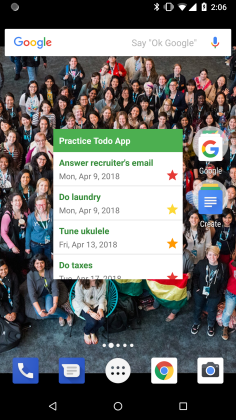
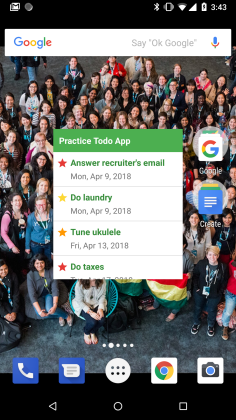
In process - tasks no longer deleted immediately after checking them off, making it possible to undo completion when you tap the wrong task, plus scheduling deletions will be a good way to use scheduling in this app

diff --git a/app/src/main/java/com/tachyonlabs/practicetodoapp/adapters/TodoListAdapter.java b/app/src/main/java/com/tachyonlabs/practicetodoapp/adapters/TodoListAdapter.java
@@ -4,30 +4,39 @@ import com.tachyonlabs.practicetodoapp.R;
 import com.tachyonlabs.practicetodoapp.data.TodoListContract;
 import com.tachyonlabs.practicetodoapp.models.TodoTask;
 
+import android.annotation.SuppressLint;
 import android.content.Context;
+import android.content.res.ColorStateList;
 import android.content.res.Resources;
 import android.database.Cursor;
+import android.graphics.Color;
 import android.graphics.drawable.Drawable;
 import android.support.annotation.NonNull;
+import android.support.constraint.ConstraintLayout;
+import android.support.v7.widget.AppCompatCheckBox;
 import android.support.v7.widget.RecyclerView;
 import android.text.format.DateUtils;
 import android.view.LayoutInflater;
 import android.view.View;
 import android.view.ViewGroup;
-import android.widget.CheckBox;
 import android.widget.ImageView;
 import android.widget.TextView;
 
 public class TodoListAdapter extends RecyclerView.Adapter<TodoListAdapter.TodoListAdapterViewHolder> {
-    private final String TAG = TodoListAdapter.class.getSimpleName();
+    private final static String TAG = TodoListAdapter.class.getSimpleName();
+    private final static int COMPLETED = 1;
     private final TodoListAdapterOnClickHandler mClickHandler;
     private Context mContext;
     private Drawable[] priorityStars;
+    private Drawable completedStar;
     private Cursor mCursor;
     private int mDescriptionIndex;
     private int mPriorityIndex;
     private int mDueDateIndex;
     private int m_IDIndex;
+    private int mCompletedIndex;
+    private ColorStateList completedCheckboxColors;
+    private ColorStateList unCompletedCheckboxColors;
 
     public TodoListAdapter(Context context, TodoListAdapterOnClickHandler todoListAdapterOnClickHandler) {
         mClickHandler = todoListAdapterOnClickHandler;
@@ -35,6 +44,27 @@ public class TodoListAdapter extends RecyclerView.Adapter<TodoListAdapter.TodoLi
         Resources res = context.getResources();
         // not really the place for this, but I had too much trouble trying to read them from @arrays
         priorityStars = new Drawable[]{res.getDrawable(R.drawable.ic_star_red_24dp), res.getDrawable(R.drawable.ic_star_orange_24dp), res.getDrawable(R.drawable.ic_star_yellow_24dp)};
+        completedStar = res.getDrawable(R.drawable.ic_star_grey_24dp);
+
+        completedCheckboxColors = new ColorStateList(
+                new int[][]{
+                        new int[]{-android.R.attr.state_checked},
+                        new int[]{android.R.attr.state_checked},
+                },
+                new int[]{
+                        Color.DKGRAY,
+                        mContext.getResources().getColor(R.color.colorCompleted),
+                });
+
+        unCompletedCheckboxColors = new ColorStateList(
+                new int[][]{
+                        new int[]{-android.R.attr.state_checked},
+                        new int[]{android.R.attr.state_checked},
+                },
+                new int[]{
+                        Color.DKGRAY,
+                        mContext.getResources().getColor(R.color.colorAccent),
+                });
     }
 
     @Override
@@ -50,13 +80,12 @@ public class TodoListAdapter extends RecyclerView.Adapter<TodoListAdapter.TodoLi
         return viewHolder;
     }
 
+    @SuppressLint("RestrictedApi")
     @Override
     public void onBindViewHolder(@NonNull TodoListAdapter.TodoListAdapterViewHolder holder, int position) {
         mCursor.moveToPosition(position);
 
         holder.cbTodoDescription.setText(mCursor.getString(mDescriptionIndex));
-        // so deleting an item doesn't propagate the checked checkbox when the view is recycled
-        holder.cbTodoDescription.setChecked(false);
 //        // ditto for not propagating a red/overdue date
 //        holder.tvTodoDueDate.setTextColor(holder.tvTodoPriority.getCurrentTextColor());
 
@@ -83,7 +112,21 @@ public class TodoListAdapter extends RecyclerView.Adapter<TodoListAdapter.TodoLi
         int priority = mCursor.getInt(mPriorityIndex);
         holder.tvTodoDueDate.setText(dueDateString);
         holder.tvTodoPriority.setText(mContext.getResources().getStringArray(R.array.priorities)[priority]);
-        holder.ivTodoPriorityStar.setBackground(priorityStars[priority]);
+        int isCompleted = mCursor.getInt(mCompletedIndex);
+        holder.cbTodoDescription.setChecked(isCompleted == COMPLETED);
+
+        if (isCompleted == COMPLETED) {
+            // if the task is completed, we want everything grey, and no touch selector behavior
+            holder.clTodoListItem.setBackground(null);
+            holder.cbTodoDescription.setTextColor(mContext.getResources().getColor(R.color.colorCompleted));
+            holder.cbTodoDescription.setSupportButtonTintList(completedCheckboxColors);
+            holder.ivTodoPriorityStar.setBackground(completedStar);
+        } else {
+            holder.clTodoListItem.setBackground(mContext.getResources().getDrawable(R.drawable.list_item_touch_selector));
+            holder.cbTodoDescription.setTextColor(mContext.getResources().getColor(R.color.colorPrimaryDark));
+            holder.cbTodoDescription.setSupportButtonTintList(unCompletedCheckboxColors);
+            holder.ivTodoPriorityStar.setBackground(priorityStars[priority]);
+        }
     }
 
     @Override
@@ -102,6 +145,7 @@ public class TodoListAdapter extends RecyclerView.Adapter<TodoListAdapter.TodoLi
             mPriorityIndex = mCursor.getColumnIndex(TodoListContract.TodoListEntry.COLUMN_PRIORITY);
             mDueDateIndex = mCursor.getColumnIndex(TodoListContract.TodoListEntry.COLUMN_DUE_DATE);
             m_IDIndex = mCursor.getColumnIndex(TodoListContract.TodoListEntry.COLUMN_ID);
+            mCompletedIndex = mCursor.getColumnIndex(TodoListContract.TodoListEntry.COLUMN_COMPLETED);
         }
         notifyDataSetChanged();
     }
@@ -111,10 +155,11 @@ public class TodoListAdapter extends RecyclerView.Adapter<TodoListAdapter.TodoLi
     }
 
     public class TodoListAdapterViewHolder extends RecyclerView.ViewHolder implements View.OnClickListener {
-        final CheckBox cbTodoDescription;
+        final AppCompatCheckBox cbTodoDescription;
         final TextView tvTodoDueDate;
         final TextView tvTodoPriority;
         final ImageView ivTodoPriorityStar;
+        final ConstraintLayout clTodoListItem;
 
         public TodoListAdapterViewHolder(View itemView) {
             super(itemView);
@@ -122,6 +167,7 @@ public class TodoListAdapter extends RecyclerView.Adapter<TodoListAdapter.TodoLi
             tvTodoDueDate = itemView.findViewById(R.id.tv_todo_due_date);
             tvTodoPriority = itemView.findViewById(R.id.tv_todo_priority);
             ivTodoPriorityStar = itemView.findViewById(R.id.iv_todo_priority_star);
+            clTodoListItem = (ConstraintLayout) itemView;
             itemView.setOnClickListener(this);
             cbTodoDescription.setOnClickListener(this);
         }
@@ -132,7 +178,8 @@ public class TodoListAdapter extends RecyclerView.Adapter<TodoListAdapter.TodoLi
             TodoTask todoTask = new TodoTask(mCursor.getString(mDescriptionIndex),
                     mCursor.getInt(mPriorityIndex),
                     mCursor.getLong(mDueDateIndex),
-                    mCursor.getInt(m_IDIndex));
+                    mCursor.getInt(m_IDIndex),
+                    mCursor.getInt(mCompletedIndex));
             mClickHandler.onClick(todoTask, view);
         }
     }

diff --git a/app/src/main/java/com/tachyonlabs/practicetodoapp/activities/TodoListActivity.java b/app/src/main/java/com/tachyonlabs/practicetodoapp/activities/TodoListActivity.java
@@ -8,6 +8,7 @@ import com.tachyonlabs.practicetodoapp.models.TodoTask;
 
 import android.app.Activity;
 import android.appwidget.AppWidgetManager;
+import android.content.ContentValues;
 import android.content.Intent;
 import android.content.SharedPreferences;
 import android.database.Cursor;
@@ -38,6 +39,9 @@ public class TodoListActivity extends AppCompatActivity implements LoaderManager
     private static final int ADD_TASK_REQUEST = 1;
     private static final int EDIT_TASK_REQUEST = 2;
     private static final int ID_TODOLIST_LOADER = 2018;
+    private static final int COMPLETED = 1;
+    private static final int NOT_COMPLETED = 0;
+
     private RecyclerView mRecyclerView;
     private TodoListAdapter mTodoListAdapter;
     private ActivityTodoListBinding mBinding;
@@ -92,24 +96,40 @@ public class TodoListActivity extends AppCompatActivity implements LoaderManager
     public void onClick(TodoTask todoTask, View view) {
         // are they checking off the task as complete, or tapping the task to edit it?
         if (view instanceof CheckBox) {
-            // delete the checked-off task
+            // checking off task gets it flagged for deletion soon, and unchecking it reprieves it
             final String id = String.valueOf(todoTask.getId());
             final Uri uri = TodoListContract.TodoListEntry.CONTENT_URI.buildUpon().appendPath(id).build();
+            int isCompleted;
+
+            final ContentValues contentValues = new ContentValues();
+            contentValues.put(TodoListContract.TodoListEntry.COLUMN_DESCRIPTION, todoTask.getDescription());
+            contentValues.put(TodoListContract.TodoListEntry.COLUMN_PRIORITY, todoTask.getPriority());
+            contentValues.put(TodoListContract.TodoListEntry.COLUMN_DUE_DATE, todoTask.getDueDate());
+
+            if (((CheckBox) view).isChecked()) {
+                isCompleted = COMPLETED;
+            } else {
+                isCompleted = NOT_COMPLETED;
+            }
+
+            contentValues.put(TodoListContract.TodoListEntry.COLUMN_COMPLETED, isCompleted);
 
             // Wait half a second so they can actually see the check appear before the task is deleted
             Handler handler = new Handler();
             handler.postDelayed(new Runnable() {
                 public void run() {
-                    getContentResolver().delete(uri, "_id=?", new String[]{id});
+                    getContentResolver().update(uri, contentValues, "_id=?", new String[]{id});
                     updateWidget();
                 }
             }, 500);
         } else {
-            // edit the task
-            Intent intent = new Intent(this, AddOrEditTaskActivity.class);
-            intent.putExtra(getString(R.string.intent_adding_or_editing_key), getString(R.string.edit_task));
-            intent.putExtra(getString(R.string.intent_todo_key), todoTask);
-            startActivityForResult(intent, EDIT_TASK_REQUEST);
+            // edit the task if it's not already completed
+            if (todoTask.getCompleted() == NOT_COMPLETED) {
+                Intent intent = new Intent(this, AddOrEditTaskActivity.class);
+                intent.putExtra(getString(R.string.intent_adding_or_editing_key), getString(R.string.edit_task));
+                intent.putExtra(getString(R.string.intent_todo_key), todoTask);
+                startActivityForResult(intent, EDIT_TASK_REQUEST);
+            }
         }
     }
 
@@ -134,9 +154,9 @@ public class TodoListActivity extends AppCompatActivity implements LoaderManager
             Uri todoListQueryUri = TodoListContract.TodoListEntry.CONTENT_URI;
             // sort order preference is the primary sort, with the other sort order as secondary
             if (sortOrderPreference.equals(getString(R.string.priority))) {
-                sortOrder = TodoListContract.TodoListEntry.COLUMN_PRIORITY + ", " + TodoListContract.TodoListEntry.COLUMN_DUE_DATE;
+                sortOrder = TodoListContract.TodoListEntry.COLUMN_COMPLETED + ", " + TodoListContract.TodoListEntry.COLUMN_PRIORITY + ", " + TodoListContract.TodoListEntry.COLUMN_DUE_DATE;
             } else {
-                sortOrder = TodoListContract.TodoListEntry.COLUMN_DUE_DATE + ", " + TodoListContract.TodoListEntry.COLUMN_PRIORITY;
+                sortOrder = TodoListContract.TodoListEntry.COLUMN_COMPLETED + ", " + TodoListContract.TodoListEntry.COLUMN_DUE_DATE + ", " + TodoListContract.TodoListEntry.COLUMN_PRIORITY;
             }
 
             return new CursorLoader(this,

diff --git a/app/src/main/java/com/tachyonlabs/practicetodoapp/activities/AddOrEditTaskActivity.java b/app/src/main/java/com/tachyonlabs/practicetodoapp/activities/AddOrEditTaskActivity.java
@@ -24,6 +24,9 @@ public class AddOrEditTaskActivity extends AppCompatActivity {
     private int todoId = -1;
     private String mAddOrEdit;
 
+    // we don't add or edit tasks that are pending deletion
+    private final static int NOT_COMPLETED = 0;
+
     @Override
     protected void onCreate(Bundle savedInstanceState) {
         super.onCreate(savedInstanceState);
@@ -128,7 +131,7 @@ public class AddOrEditTaskActivity extends AppCompatActivity {
                 calendar.set(mBinding.dpDueDate.getYear(), mBinding.dpDueDate.getMonth(), mBinding.dpDueDate.getDayOfMonth());
                 dueDate = calendar.getTimeInMillis();
             }
-            TodoTask todoTask = new TodoTask(description, priority, dueDate, todoId);
+            TodoTask todoTask = new TodoTask(description, priority, dueDate, todoId, NOT_COMPLETED);
 
             insertOrUpdate(todoTask);
 
@@ -146,6 +149,7 @@ public class AddOrEditTaskActivity extends AppCompatActivity {
         contentValues.put(TodoListContract.TodoListEntry.COLUMN_DESCRIPTION, todoTask.getDescription());
         contentValues.put(TodoListContract.TodoListEntry.COLUMN_PRIORITY, todoTask.getPriority());
         contentValues.put(TodoListContract.TodoListEntry.COLUMN_DUE_DATE, todoTask.getDueDate());
+        contentValues.put(TodoListContract.TodoListEntry.COLUMN_COMPLETED, todoTask.getCompleted());
 
         if (mAddOrEdit.equals(getString(R.string.add_new_task))) {
             getContentResolver().insert(TodoListContract.TodoListEntry.CONTENT_URI, contentValues);

diff --git a/app/src/main/java/com/tachyonlabs/practicetodoapp/widget/TodoListWidgetRemoteViewsFactory.java b/app/src/main/java/com/tachyonlabs/practicetodoapp/widget/TodoListWidgetRemoteViewsFactory.java
@@ -25,6 +25,7 @@ public class TodoListWidgetRemoteViewsFactory implements RemoteViewsService.Remo
     private int mPriorityIndex;
     private int mDueDateIndex;
     private int m_IDIndex;
+    private int mPendingDeletionIndex;
 
     public TodoListWidgetRemoteViewsFactory(Context context, Intent intent) {
         mContext = context;
@@ -89,6 +90,7 @@ public class TodoListWidgetRemoteViewsFactory implements RemoteViewsService.Remo
         mPriorityIndex = mCursor.getColumnIndex(TodoListContract.TodoListEntry.COLUMN_PRIORITY);
         mDueDateIndex = mCursor.getColumnIndex(TodoListContract.TodoListEntry.COLUMN_DUE_DATE);
         m_IDIndex = mCursor.getColumnIndex(TodoListContract.TodoListEntry.COLUMN_ID);
+        mPendingDeletionIndex = mCursor.getColumnIndex(TodoListContract.TodoListEntry.COLUMN_COMPLETED);
 
         String dueDateString;
         long dueDate = mCursor.getLong(mDueDateIndex);
@@ -118,7 +120,8 @@ public class TodoListWidgetRemoteViewsFactory implements RemoteViewsService.Remo
         TodoTask todoTask = new TodoTask(mCursor.getString(mDescriptionIndex),
                 mCursor.getInt(mPriorityIndex),
                 mCursor.getLong(mDueDateIndex),
-                mCursor.getInt(m_IDIndex));
+                mCursor.getInt(m_IDIndex),
+                mCursor.getInt(mPendingDeletionIndex));
 
         Intent fillInIntent = new Intent();
         fillInIntent.putExtra(mContext.getString(R.string.intent_todo_key), todoTask);

diff --git a/app/src/main/java/com/tachyonlabs/practicetodoapp/data/TodoListDbHelper.java b/app/src/main/java/com/tachyonlabs/practicetodoapp/data/TodoListDbHelper.java
@@ -6,7 +6,7 @@ import android.database.sqlite.SQLiteOpenHelper;
 
 public class TodoListDbHelper extends SQLiteOpenHelper {
     public static final String DATABASE_NAME = "todolist.db";
-    private static final int DATABASE_VERSION = 1;
+    private static final int DATABASE_VERSION = 3;
 
     public TodoListDbHelper(Context context) {
         super(context, DATABASE_NAME, null, DATABASE_VERSION);
@@ -20,7 +20,8 @@ public class TodoListDbHelper extends SQLiteOpenHelper {
                         TodoListContract.TodoListEntry._ID + " INTEGER PRIMARY KEY AUTOINCREMENT, " +
                         TodoListContract.TodoListEntry.COLUMN_DESCRIPTION + " TEXT NOT NULL, " +
                         TodoListContract.TodoListEntry.COLUMN_PRIORITY + " INTEGER NOT NULL, " +
-                        TodoListContract.TodoListEntry.COLUMN_DUE_DATE + " LONG NOT NULL);";
+                        TodoListContract.TodoListEntry.COLUMN_DUE_DATE + " LONG NOT NULL, " +
+                        TodoListContract.TodoListEntry.COLUMN_COMPLETED + " INTEGER NOT NULL);";
 
         sqLiteDatabase.execSQL(SQL_CREATE_TODOLIST_TABLE);
     }
@@ -30,5 +31,4 @@ public class TodoListDbHelper extends SQLiteOpenHelper {
         sqLiteDatabase.execSQL("DROP TABLE IF EXISTS " + TodoListContract.TodoListEntry.TABLE_NAME);
         onCreate(sqLiteDatabase);
     }
-
 }

diff --git a/app/src/main/java/com/tachyonlabs/practicetodoapp/models/TodoTask.java b/app/src/main/java/com/tachyonlabs/practicetodoapp/models/TodoTask.java
@@ -20,12 +20,14 @@ public class TodoTask implements Parcelable {
     private int priority;
     private long dueDate;
     private int id;
+    private int completed;
 
-    public TodoTask(String description, int priority, long dueDate, int id) {
+    public TodoTask(String description, int priority, long dueDate, int id, int completed) {
         this.description = description;
         this.priority = priority;
         this.dueDate = dueDate;
         this.id = id;
+        this.completed = completed;
     }
 
     private TodoTask(Parcel in) {
@@ -33,6 +35,7 @@ public class TodoTask implements Parcelable {
         priority = in.readInt();
         dueDate = in.readLong();
         id = in.readInt();
+        completed = in.readInt();
     }
 
     @Override
@@ -46,6 +49,7 @@ public class TodoTask implements Parcelable {
         parcel.writeInt(priority);
         parcel.writeLong(dueDate);
         parcel.writeInt(id);
+        parcel.writeInt(completed);
     }
 
     public String getDescription() {
@@ -78,5 +82,13 @@ public class TodoTask implements Parcelable {
 
     public void setId(int id) {
         this.id = id;
+    }
+
+    public int getCompleted() {
+        return completed;
+    }
+
+    public void setCompleted(int completed) {
+        this.completed = completed;
     }
 }

diff --git a/app/src/main/java/com/tachyonlabs/practicetodoapp/data/TodoListContract.java b/app/src/main/java/com/tachyonlabs/practicetodoapp/data/TodoListContract.java
@@ -18,5 +18,6 @@ public class TodoListContract {
         public static final String COLUMN_DESCRIPTION = "description";
         public static final String COLUMN_PRIORITY = "priority";
         public static final String COLUMN_DUE_DATE = "due_date";
+        public static final String COLUMN_COMPLETED = "completed";
     }
 }
